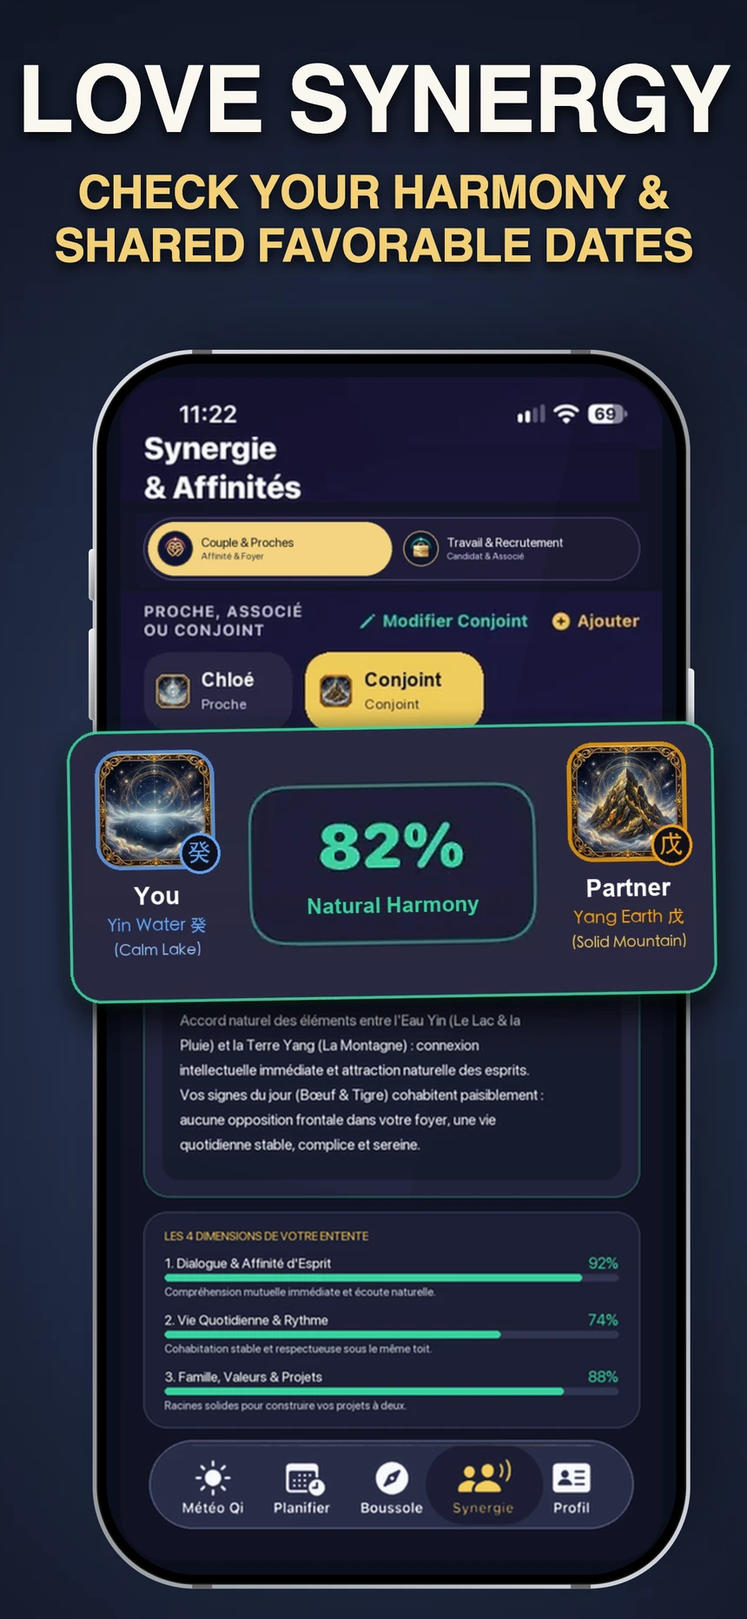
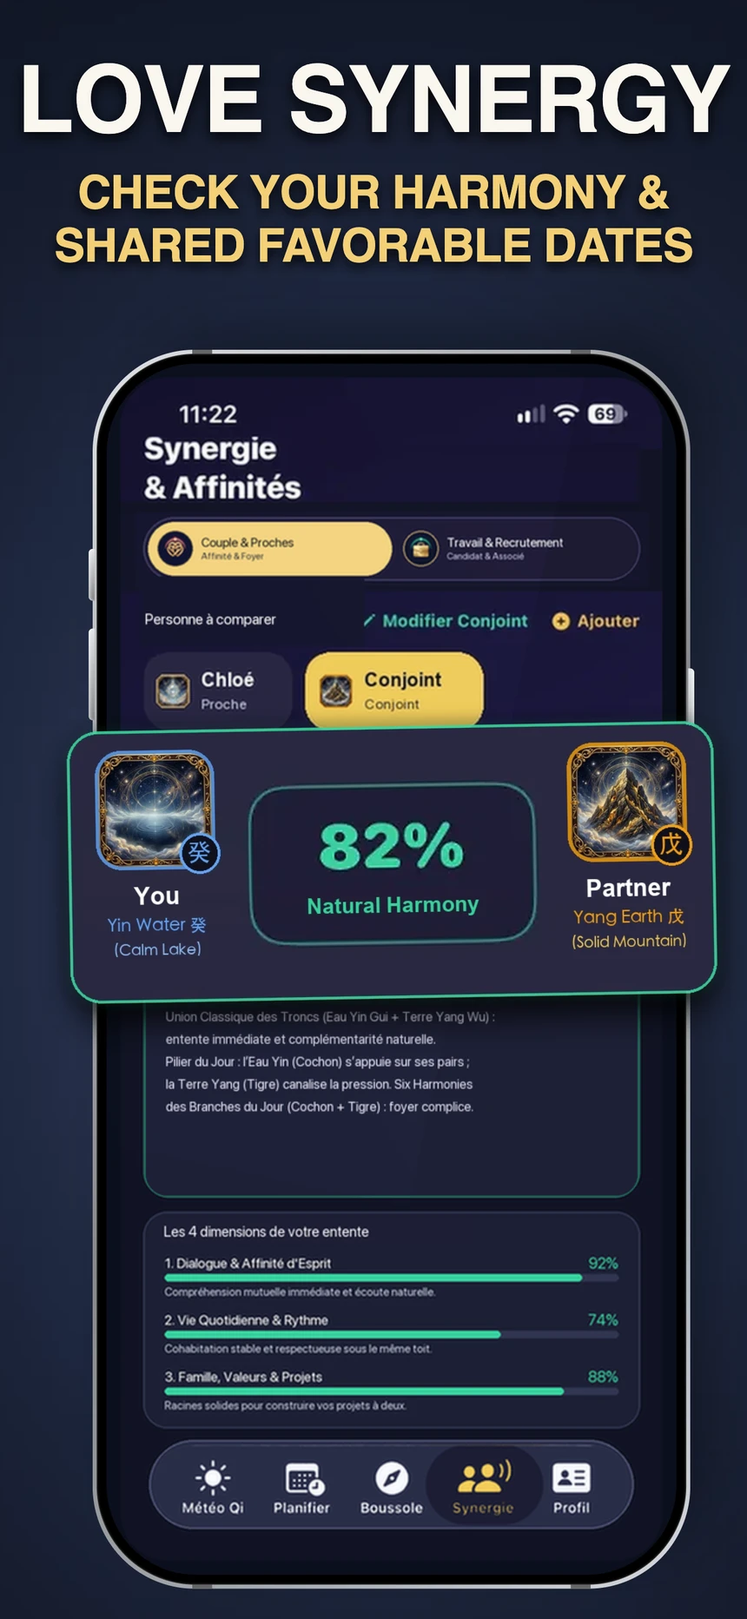
feat(geo,site): add llms.txt, FAQPage JSON-LD, 2-mode Compass & authentic BaZi Synergy copy and screenshots

Changed region(s): [[0.2116, 0.6223, 0.7256, 0.7157], [0.2116, 0.7468, 0.4837, 0.7779], [0.1814, 0.3734, 0.393, 0.4045]]

diff --git a/index.html b/index.html
@@ -7,8 +7,8 @@
   <!-- SEO Primary Meta Tags -->
   <title>QiMétéo — La Météo de vos Décisions · Almanach Tong Shu, Qi Men Dun Jia, BaZi &amp; Feng Shui</title>
   <meta name="title" content="QiMétéo — La Météo de vos Décisions · Almanach Tong Shu, Qi Men Dun Jia, BaZi &amp; Feng Shui">
-  <meta name="description" content="Comme la météo du matin, mais calculée sur votre date et votre heure de naissance (4 Piliers BaZi) : Feu Vert/Orange/Rouge, jusqu’à 3 créneaux d’or Qi Men Dun Jia (hors Kong Wang), boussole 8 Palais, planificateur 30 jours sur 7 projets, Feng Shui Maison (Chiffre Gua) et Synergie Couple &amp; Travail/Recrutement.">
-  <meta name="keywords" content="QiMétéo, qimeteo, météo des décisions, qi men dun jia, tong shu, 4 piliers bazi, feng shui ming gua, chiffre gua, kong wang, planificateur 30 jours, synergie travail recrutement, compatibilité duo, boussole qi men">
+  <meta name="description" content="Comme la météo du matin, mais calculée sur votre date et votre heure de naissance (4 Piliers BaZi) : Feu Vert/Orange/Rouge, jusqu’à 3 créneaux d’or Qi Men Dun Jia (hors Kong Wang), boussole live en 2 modes (Créneaux 2h Qi Men &amp; À vie Chez soi Gua), planificateur 30 jours sur 7 projets et Synergie BaZi Couple &amp; Recrutement (Pilier du Jour, Branche du Mois &amp; Objectif pro).">
+  <meta name="keywords" content="QiMétéo, qimeteo, météo des décisions, qi men dun jia, tong shu, 4 piliers bazi, pilier du jour, branche du mois, feng shui ming gua, chiffre gua, kong wang, planificateur 30 jours, synergie travail recrutement, compatibilité couple bazi, boussole qi men">
   <meta name="author" content="Xavier Larrodé">
   <meta name="robots" content="index, follow">
   <meta name="google-site-verification" content="7idiWW8R0wCWxFZU1-zaQhHj3xDeIIynGLWol92rv7U" />
@@ -17,18 +17,19 @@
   <meta property="og:type" content="website">
   <meta property="og:url" content="https://qimeteo.app/">
   <meta property="og:title" content="QiMétéo — La Météo de vos Décisions (iPhone &amp; iPad)">
-  <meta property="og:description" content="Découvrez en 3 secondes (Feu Vert, Orange ou Rouge) si aujourd'hui est propice selon vos 4 Piliers de naissance, vos créneaux d'or de 2h, votre boussole Qi Men et vos dates propices sur 30 jours.*">
-  <meta property="og:image" content="https://qimeteo.app/assets/screenshots/fr/screen_1.webp">
+  <meta property="og:description" content="Découvrez en 3 secondes (Feu Vert, Orange ou Rouge) si aujourd'hui est propice selon vos 4 Piliers BaZi, vos créneaux d'or de 2h, votre boussole en 2 modes (Créneaux 2h Qi Men &amp; À vie Chez soi Gua), vos dates sur 30 jours et la Synergie Couple &amp; Recrutement.*">
+  <meta property="og:image" content="https://qimeteo.app/assets/screenshots/fr/screen_1.webp?v=10">
 
   <!-- Twitter Card -->
   <meta property="twitter:card" content="summary_large_image">
   <meta property="twitter:url" content="https://qimeteo.app/">
   <meta property="twitter:title" content="QiMétéo — La Météo de vos Décisions">
-  <meta property="twitter:description" content="Feu Vert, Orange ou Rouge calculé selon vos date et heure de naissance, créneaux Qi Men Dun Jia, boussole 8 Palais, planificateur 30 jours et Feng Shui Ming Gua.">
-  <meta property="twitter:image" content="https://qimeteo.app/assets/screenshots/fr/screen_1.webp">
+  <meta property="twitter:description" content="Feu Vert, Orange ou Rouge calculé selon vos date et heure de naissance, créneaux Qi Men Dun Jia, boussole 2 modes (2h Qi Men &amp; À vie Chez soi Gua), planificateur 30 jours et Synergie BaZi Couple &amp; Recrutement.">
+  <meta property="twitter:image" content="https://qimeteo.app/assets/screenshots/fr/screen_1.webp?v=10">
 
   <!-- Canonical & Domain -->
   <link rel="canonical" href="https://qimeteo.app/">
+  <link rel="alternate" type="text/plain" title="LLMs Context" href="https://qimeteo.app/llms.txt">
   
   <!-- Favicons -->
   <link rel="icon" type="image/png" sizes="32x32" href="assets/images/favicon-32.png">
@@ -39,24 +40,66 @@
   <!-- Typography: Outfit (AppShots Display) + Cormorant Garamond (Almanac Editorial) + DM Sans (UI) -->
   <link rel="preconnect" href="https://fonts.googleapis.com">
   <link rel="preconnect" href="https://fonts.gstatic.com" crossorigin>
-  <link href="https://fonts.googleapis.com/css2?family=Cormorant+Garamond:ital,wght@0,500;0,600;0,700;1,500;1,600&family=DM+Sans:ital,opsz,wght@0,9..40,400;0,9..40,500;0,9..40,600;0,9..40,700;1,9..40,400&family=Outfit:wght@600;700;800;900&display=swap" rel="stylesheet">
+  <link href="https://fonts.googleapis.com/css2?family=Cormorant+Garamond:ital,wght@0,500;0,700;1,500;1,600&family=DM+Sans:ital,opsz,wght@0,9..40,400;0,9..40,500;0,9..40,600;0,9..40,700;1,9..40,400&family=Outfit:wght@600;700;800;900&display=swap" rel="stylesheet">
 
   <link rel="stylesheet" href="styles.css?v=8">
 
-  <!-- Schema.org Application Markup -->
+  <!-- Schema.org GEO Structured Data (SoftwareApplication + FAQPage) -->
   <script type="application/ld+json">
   {
     "@context": "https://schema.org",
-    "@type": "SoftwareApplication",
-    "name": "QiMétéo : Météo des Décisions",
-    "operatingSystem": "iOS, iPadOS",
-    "applicationCategory": "LifestyleApplication, ProductivityApplication",
-    "url": "https://qimeteo.app/",
-    "description": "Application iOS et iPadOS de météo décisionnelle quotidienne calculée selon la date et l’heure de naissance (4 Piliers BaZi, 12 Officiers Tong Shu, créneaux stratégiques Qi Men Dun Jia hors Kong Wang, planificateur 30 jours et Feng Shui Ming Gua).",
-    "author": {
-      "@type": "Person",
-      "name": "Xavier Larrodé"
-    }
+    "@graph": [
+      {
+        "@type": "SoftwareApplication",
+        "name": "QiMétéo : Météo des Décisions",
+        "operatingSystem": "iOS 17+, iPadOS 17+",
+        "applicationCategory": "LifestyleApplication, ProductivityApplication",
+        "url": "https://qimeteo.app/",
+        "inLanguage": ["fr", "en", "es", "zh-Hans", "zh-Hant"],
+        "description": "Application iOS et iPadOS de météo décisionnelle quotidienne calculée 100 % en local selon la date et l’heure de naissance (4 Piliers BaZi, 12 Officiers Tong Shu, créneaux stratégiques Qi Men Dun Jia de 2h hors Kong Wang, boussole live en 2 modes : Créneaux 2h Qi Men et À vie Chez soi Ming Gua ±7°, planificateur 30 jours sur 7 projets et Synergie BaZi Couple & Travail/Recrutement avec théorie du Pilier du Jour, force de la Branche du Mois et détection des conflits).",
+        "featureList": [
+          "Météo décisionnelle quotidienne Feu Vert, Orange ou Rouge (Score 0–100 %)",
+          "Thème natal 4 Piliers BaZi (Troncs Célestes illustrés & Branches Terrestres)",
+          "Jusqu'à 3 Créneaux d'Or Qi Men Dun Jia de 2h par jour (hors Kong Wang, Tombe du Mois/Jour et Fu Yin)",
+          "Boussole Live en 2 modes : Créneaux 2h (Qi Men, dos tourné vers la direction + rituel d'ancrage 3 min) et À vie • Chez soi (Chiffre Gua Ba Zhai ±7° pour lit et bureau fixe)",
+          "Planificateur sur 30 jours pour 7 intentions de projet et audit du Calendrier Apple",
+          "Double Synergie BaZi : Couple & Proches + Travail, Associés & Recrutement (Pilier du Jour Maître/Branche, Force de la Branche du Mois & Objectif professionnel, Unions et Conflits des Troncs et Branches)"
+        ],
+        "author": {
+          "@type": "Person",
+          "name": "Xavier Larrodé"
+        }
+      },
+      {
+        "@type": "FAQPage",
+        "mainEntity": [
+          {
+            "@type": "Question",
+            "name": "Pourquoi renseigner à la fois sa date et son heure de naissance dans QiMétéo ?",
+            "acceptedAnswer": {
+              "@type": "Answer",
+              "text": "Le BaZi dresse vos 4 Piliers natals (Année, Mois solaire JieQi, Jour et Heure de naissance), où chaque pilier associe un Tronc Céleste (Élément Yin ou Yang) et une Branche Terrestre (Animal). Votre Maître du Jour est le Tronc Céleste du Jour. Le Tong Shu qualifie l’énergie de la journée via les 12 Officiers, le Qi Men Dun Jia sélectionne vos créneaux de 2h (hors Kong Wang), et le Feng Shui Ming Gua détermine vos 4 directions permanentes à la maison."
+            }
+          },
+          {
+            "@type": "Question",
+            "name": "Quelle est la différence entre les 2 modes de la Boussole Live : Créneaux 2h (Qi Men) et À vie • Chez soi (Gua) ?",
+            "acceptedAnswer": {
+              "@type": "Answer",
+              "text": "Le mode « Créneaux 2h (Qi Men) » est dynamique et change toutes les 2 heures : il indique la direction vers laquelle tourner votre dos pendant un créneau d'or pour un appel, une signature ou une négociation, avec un rituel d'ancrage de 3 minutes. Le mode « À vie • Chez soi (Gua) » est permanent : calculé selon votre année solaire de naissance et votre genre (Homme/Femme), il indique vos 4 directions personnelles à vie (±7°) pour orienter durablement la tête de votre lit et votre bureau fixe à la maison."
+            }
+          },
+          {
+            "@type": "Question",
+            "name": "Comment fonctionne la Synergie Couple et Travail / Recrutement en BaZi ?",
+            "acceptedAnswer": {
+              "@type": "Answer",
+              "text": "QiMétéo analyse les 4 Piliers complets des deux personnes selon la méthode classique : le rapport interne du Pilier du Jour (Maître du Jour ↔ Branche Terrestre du Jour, qui révèle le fonctionnement intime au foyer ou la réaction face à la pression et au contrôle au travail), la force saisonnière de la Branche du Mois (Yue Ling) et l'objectif professionnel (Richesse & Résultat, Pouvoir & Responsabilité, Production & Savoir-Faire, Ressource & Expertise, Compagnons & Autonomie), ainsi que les unions et conflits des Troncs et des Branches (Chocs, Six Blessures, Punitions)."
+            }
+          }
+        ]
+      }
+    ]
   }
   </script>
 </head>
@@ -210,7 +253,7 @@
               <img
                 id="hero-active-screenshot"
                 class="hero-appshot-img"
-                src="assets/screenshots/fr/screen_1.webp?v=9"
+                src="assets/screenshots/fr/screen_1.webp?v=10"
                 data-screen-index="1"
                 alt="QiMétéo — Météo quotidienne Feu Vert, Orange ou Rouge"
                 width="430"
@@ -265,7 +308,7 @@
         <div class="appshots-carousel-track" id="appshots-track">
           <article class="appshot-slide-card active" data-slide-idx="0">
             <div class="appshot-img-wrap">
-              <img src="assets/screenshots/fr/screen_1.webp?v=9" data-localized-screen="1" alt="01 · Votre Météo Décisionnelle" loading="lazy" width="430" height="932">
+              <img src="assets/screenshots/fr/screen_1.webp?v=10" data-localized-screen="1" alt="01 · Votre Météo Décisionnelle" loading="lazy" width="430" height="932">
             </div>
             <div class="appshot-caption">
               <span class="appshot-step-tag">01 / 08</span>
@@ -276,7 +319,7 @@
 
           <article class="appshot-slide-card" data-slide-idx="1">
             <div class="appshot-img-wrap">
-              <img src="assets/screenshots/fr/screen_2.webp?v=9" data-localized-screen="2" alt="02 · Calculé sur mesure selon vos 4 Piliers" loading="lazy" width="430" height="932">
+              <img src="assets/screenshots/fr/screen_2.webp?v=10" data-localized-screen="2" alt="02 · Calculé sur mesure selon vos 4 Piliers" loading="lazy" width="430" height="932">
             </div>
             <div class="appshot-caption">
               <span class="appshot-step-tag">02 / 08</span>
@@ -287,7 +330,7 @@
 
           <article class="appshot-slide-card" data-slide-idx="2">
             <div class="appshot-img-wrap">
-              <img src="assets/screenshots/fr/screen_3.webp?v=9" data-localized-screen="3" alt="03 · Créneaux d'Or de 2h" loading="lazy" width="430" height="932">
+              <img src="assets/screenshots/fr/screen_3.webp?v=10" data-localized-screen="3" alt="03 · Créneaux d'Or de 2h" loading="lazy" width="430" height="932">
             </div>
             <div class="appshot-caption">
               <span class="appshot-step-tag">03 / 08</span>
@@ -298,18 +341,18 @@
 
           <article class="appshot-slide-card" data-slide-idx="3">
             <div class="appshot-img-wrap">
-              <img src="assets/screenshots/fr/screen_4.webp?v=9" data-localized-screen="4" alt="04 · Boussole Live 8 Palais" loading="lazy" width="430" height="932">
+              <img src="assets/screenshots/fr/screen_4.webp?v=10" data-localized-screen="4" alt="04 · Boussole Live 2 modes : Créneaux 2h Qi Men &amp; À vie Chez soi Gua" loading="lazy" width="430" height="932">
             </div>
             <div class="appshot-caption">
               <span class="appshot-step-tag">04 / 08</span>
-              <h3 data-i18n="sc4_t">Boussole Live des 8 Palais</h3>
-              <p data-i18n="sc4_d">Indique au degré près s’il est symboliquement propice de tourner le dos à la Déité Qi Men ou de faire face à la Combinaison.*</p>
+              <h3 data-i18n="sc4_t">Boussole Live en 2 modes : Créneaux 2h &amp; À vie Chez soi</h3>
+              <p data-i18n="sc4_d">Mode « Créneaux 2h (Qi Men) » (change toutes les 2h, dos tourné vers la direction + rituel d’ancrage 3 min) et mode « À vie • Chez soi (Gua) » (±7° pour lit &amp; bureau fixe).*</p>
             </div>
           </article>
 
           <article class="appshot-slide-card" data-slide-idx="4">
             <div class="appshot-img-wrap">
-              <img src="assets/screenshots/fr/screen_5.webp?v=9" data-localized-screen="5" alt="05 · Planificateur 30 jours sur 7 projets" loading="lazy" width="430" height="932">
+              <img src="assets/screenshots/fr/screen_5.webp?v=10" data-localized-screen="5" alt="05 · Planificateur 30 jours sur 7 projets" loading="lazy" width="430" height="932">
             </div>
             <div class="appshot-caption">
               <span class="appshot-step-tag">05 / 08</span>
@@ -320,7 +363,7 @@
 
           <article class="appshot-slide-card" data-slide-idx="5">
             <div class="appshot-img-wrap">
-              <img src="assets/screenshots/fr/screen_6.webp?v=9" data-localized-screen="6" alt="06 · Feng Shui Ming Gua" loading="lazy" width="430" height="932">
+              <img src="assets/screenshots/fr/screen_6.webp?v=10" data-localized-screen="6" alt="06 · Feng Shui Ming Gua" loading="lazy" width="430" height="932">
             </div>
             <div class="appshot-caption">
               <span class="appshot-step-tag">06 / 08</span>
@@ -331,23 +374,23 @@
 
           <article class="appshot-slide-card" data-slide-idx="6">
             <div class="appshot-img-wrap">
-              <img src="assets/screenshots/fr/screen_7.webp?v=9" data-localized-screen="7" alt="07 · Synergie Couple &amp; Proches" loading="lazy" width="430" height="932">
+              <img src="assets/screenshots/fr/screen_7.webp?v=10" data-localized-screen="7" alt="07 · Synergie Couple &amp; Proches" loading="lazy" width="430" height="932">
             </div>
             <div class="appshot-caption">
               <span class="appshot-step-tag">07 / 08</span>
-              <h3 data-i18n="sc6_duo_t">Synergie Couple, Famille &amp; Proches</h3>
-              <p data-i18n="sc6_duo_d">Comparez vos Maîtres du Jour (Troncs Célestes) et vos Branches Terrestres, et repérez vos dates communes favorables sur 30 jours.*</p>
+              <h3 data-i18n="sc6_duo_t">Synergie Couple, Famille &amp; Piliers du Jour</h3>
+              <p data-i18n="sc6_duo_d">Analyse des 4 Piliers, théorie du Pilier du Jour (Maître du Jour ↔ Branche Terrestre du Jour), unions et conflits des Branches, et dates communes sur 30 jours.*</p>
             </div>
           </article>
 
           <article class="appshot-slide-card" data-slide-idx="7">
             <div class="appshot-img-wrap">
-              <img src="assets/screenshots/fr/screen_8.webp?v=9" data-localized-screen="8" alt="08 · Synergie Travail &amp; Recrutement" loading="lazy" width="430" height="932">
+              <img src="assets/screenshots/fr/screen_8.webp?v=10" data-localized-screen="8" alt="08 · Synergie Travail &amp; Recrutement" loading="lazy" width="430" height="932">
             </div>
             <div class="appshot-caption">
               <span class="appshot-step-tag">08 / 08</span>
               <h3 data-i18n="sc8_t">Synergie Travail, Associés &amp; Recrutement</h3>
-              <p data-i18n="sc8_d">Vérifiez si un candidat, associé ou collaborateur va bien travailler avec vous : Décision &amp; Pilotage, Exécution, Rôle naturel et Conseil management.*</p>
+              <p data-i18n="sc8_d">Évaluez un candidat ou associé : Force de la Branche du Mois (Enraciné vs Adaptatif), Objectif professionnel (Richesse, Pouvoir, Savoir-Faire…), Pilier du Jour face à la pression et détection des conflits.*</p>
             </div>
           </article>
         </div>
@@ -515,14 +558,14 @@
           <article class="appshot-bento-card">
             <div class="bento-top-meta">
               <span class="bento-num">02</span>
-              <span class="bento-domain">Azimuts 0° à 315° · 八宮</span>
+              <span class="bento-domain">Azimuts 0° à 315° · 八宮 &amp; 八宅</span>
             </div>
-            <h3 class="bento-title" data-i18n="feat_2_title">Boussole Live des 8 Palais : de dos ou de face</h3>
+            <h3 class="bento-title" data-i18n="feat_2_title">Boussole Live en 2 modes : Créneaux 2h (Qi Men) &amp; À vie • Chez soi (Gua)</h3>
             <p class="bento-desc" data-i18n="feat_2_desc">
-              Selon la structure du créneau Qi Men, l’application indique s’il est symboliquement propice de vous asseoir le dos tourné vers la Déité (Chief, Heaven, Earth, Moon, Harmony) ou de faire face à une Combinaison, avec un retour haptique dès que vous êtes aligné.*
+              Mode « Créneaux 2h (Qi Men) » (change toutes les 2h : indique vers quelle direction tourner votre dos pendant un créneau d’or + rituel d’ancrage 3 min) et mode « À vie • Chez soi (Gua) » (vos 4 directions permanentes ±7° pour orienter la tête de votre lit et votre bureau fixe à la maison).*
             </p>
             <div class="bento-visual-strip">
-              <img src="assets/stickers/breakout_4_boussole_aligne.webp?v=9" alt="Boussole Qi Men Aligné" loading="lazy">
+              <img src="assets/stickers/breakout_4_boussole_aligne.webp?v=10" alt="Boussole Qi Men Aligné" loading="lazy">
             </div>
           </article>
 
@@ -536,21 +579,21 @@
               Choisissez votre objectif parmi 7 intentions (Contrats &amp; Négociations, Lancer un projet, Union &amp; Mariage, Immobilier &amp; Travaux, Voyage, Médecin, Chirurgie &amp; Combinaison Santé**, Tri &amp; Régime) et triez les dates propices sur 30 jours* par « Plus pertinent (Score %) » ou « Au plus tôt (Pressé) ».
             </p>
             <div class="bento-visual-strip">
-              <img src="assets/stickers/breakout_5_planificateur_95.webp?v=9" alt="Planificateur 30 jours Score 95%" loading="lazy">
+              <img src="assets/stickers/breakout_5_planificateur_95.webp?v=10" alt="Planificateur 30 jours Score 95%" loading="lazy">
             </div>
           </article>
 
           <article class="appshot-bento-card">
             <div class="bento-top-meta">
               <span class="bento-num">04</span>
-              <span class="bento-domain">Synergie Pro · Agenda Apple</span>
+              <span class="bento-domain">Synergie Pro BaZi · Agenda Apple</span>
             </div>
-            <h3 class="bento-title" data-i18n="feat_5_title">Synergie Travail &amp; Recrutement + Audit Agenda Apple</h3>
+            <h3 class="bento-title" data-i18n="feat_5_title">Synergie Travail &amp; Recrutement (Pilier du Jour &amp; Branche du Mois)</h3>
             <p class="bento-desc" data-i18n="feat_5_desc">
-              Vérifiez si un candidat, associé ou collaborateur va bien travailler avec vous (Décision &amp; Pilotage, Exécution, Rôle naturel et Conseil management) et auditez vos prochains rendez-vous iPhone sur 30 jours avec export en 1 tap.*
+              Évaluez un candidat, associé ou collaborateur selon la méthode BaZi classique : rapport interne du Pilier du Jour (réaction face à la pression et au contrôle), force de la Branche du Mois (Yue Ling) &amp; Objectif professionnel (Richesse, Pouvoir, Savoir-Faire…), et détection des conflits de Troncs et Branches.*
             </p>
             <div class="bento-visual-strip">
-              <img src="assets/stickers/breakout_8_expert_synastrie.webp?v=9" alt="Synergie Travail et Recrutement BaZi" loading="lazy">
+              <img src="assets/stickers/breakout_8_expert_synastrie.webp?v=10" alt="Synergie Travail et Recrutement BaZi" loading="lazy">
             </div>
           </article>
         </div>
@@ -860,6 +903,6 @@
     </div>
   </footer>
 
-  <script src="script.js?v=9"></script>
+  <script src="script.js?v=10"></script>
 </body>
 </html>

diff --git a/script.js b/script.js
@@ -76,16 +76,16 @@
       sc2_d: "Vos 4 Piliers BaZi à 2 étages (Tronc Céleste = Élément Yin/Yang en haut, Branche Terrestre = Animal en bas) et votre Chiffre Gua.",
       sc3_t: "Créneaux d’Or de 2h (hors Kong Wang)",
       sc3_d: "Vos meilleures fenêtres horaires de 2h chaque jour*, sélectionnées et diversifiées (jusqu’à 3 créneaux d’or/jour).",
-      sc4_t: "Boussole Live des 8 Palais",
-      sc4_d: "Indique au degré près s’il est symboliquement propice de tourner le dos à la Déité Qi Men ou de faire face à la Combinaison.*",
+      sc4_t: "Boussole Live en 2 modes : Créneaux 2h & À vie Chez soi",
+      sc4_d: "Mode « Créneaux 2h (Qi Men) » (change toutes les 2h, dos tourné vers la direction + rituel d’ancrage 3 min) et mode « À vie • Chez soi (Gua) » (±7° pour lit & bureau fixe).*",
       sc5_t: "Planificateur 30 Jours · 7 Projets",
       sc5_d: "Trouvez les jours propices sur 30 jours* (tri par Score % ou Au plus tôt) et auditez votre Agenda Apple.",
       sc6_t: "Feng Shui Maison (Chiffre Gua) : Lit & Bureau",
       sc6_d: "Vos 4 directions favorables permanentes (Sheng Qi, Tian Yi, Yan Nian, Fu Wei) pour orienter votre lit et votre bureau.*",
-      sc6_duo_t: "Synergie Couple, Famille & Proches",
-      sc6_duo_d: "Comparez vos Maîtres du Jour (Troncs Célestes) et vos Branches Terrestres, et repérez vos dates communes favorables sur 30 jours.*",
+      sc6_duo_t: "Synergie Couple, Famille & Piliers du Jour",
+      sc6_duo_d: "Analyse des 4 Piliers, théorie du Pilier du Jour (Maître du Jour ↔ Branche Terrestre du Jour), unions et conflits des Branches, et dates communes sur 30 jours.*",
       sc8_t: "Synergie Travail, Associés & Recrutement",
-      sc8_d: "Vérifiez si un candidat, associé ou collaborateur va bien travailler avec vous : Décision & Pilotage, Exécution, Rôle naturel et Conseil management.*",
+      sc8_d: "Évaluez un candidat ou associé : Force de la Branche du Mois (Enraciné vs Adaptatif), Objectif professionnel (Richesse, Pouvoir, Savoir-Faire…), Pilier du Jour face à la pression et détection des conflits.*",
 
       concept_badge: "L’almanach Tong Shu",
       concept_kicker: "12 OFFICIERS DU JOUR · ACCUMULATION · KONG WANG",
@@ -127,22 +127,22 @@
       feat_1_title: "Créneaux d’Or de 2h (hors heures Kong Wang)",
       feat_1_desc: "Entre 07h et 23h, QiMétéo écarte les heures Kong Wang (Vide Céleste) ainsi que les structures défavorables pour retenir jusqu’à 3 créneaux d’or par jour (Combinaisons 5★, Vœux & Intentions, Finances & Relationnel Favorables*, Déités diversifiées).",
 
-      feat_2_title: "Boussole Live des 8 Palais : de dos ou de face",
-      feat_2_desc: "Selon la structure du créneau Qi Men, l’application indique s’il est symboliquement propice de vous asseoir le dos tourné vers la Déité (Chief, Heaven, Earth, Moon, Harmony) ou de faire face à une Combinaison, avec un retour haptique dès que vous êtes aligné.*",
+      feat_2_title: "Boussole Live en 2 modes : Créneaux 2h (Qi Men) & À vie • Chez soi (Gua)",
+      feat_2_desc: "Mode « Créneaux 2h (Qi Men) » (change toutes les 2h : indique vers quelle direction tourner votre dos pendant un créneau d’or + rituel d’ancrage 3 min) et mode « À vie • Chez soi (Gua) » (vos 4 directions permanentes ±7° pour orienter la tête de votre lit et votre bureau fixe à la maison).*",
 
       feat_3_title: "Planificateur 30 Jours sur 7 Intentions & Double Tri",
       feat_3_desc: "Choisissez votre objectif parmi 7 intentions (Contrats & Négociations, Lancer un projet, Union & Mariage, Immobilier & Travaux, Voyage, Médecin, Chirurgie & Combinaison Santé**, Tri & Régime) et triez les dates propices sur 30 jours* par « Plus pertinent (Score %) » ou « Au plus tôt (Pressé) ».",
 
-      feat_5_title: "Synergie Travail & Recrutement + Audit Agenda Apple",
-      feat_5_desc: "Vérifiez si un candidat, associé ou collaborateur va bien travailler avec vous (Décision & Pilotage, Exécution, Rôle naturel et Conseil management) et auditez vos prochains rendez-vous iPhone sur 30 jours avec export en 1 tap.*",
+      feat_5_title: "Synergie Travail & Recrutement (Pilier du Jour & Branche du Mois)",
+      feat_5_desc: "Évaluez un candidat, associé ou collaborateur selon la méthode BaZi classique : rapport interne du Pilier du Jour (réaction face à la pression et au contrôle), force de la Branche du Mois (Yue Ling) & Objectif professionnel (Richesse, Pouvoir, Savoir-Faire…), et détection des conflits de Troncs et Branches.*",
 
       duo_badge: "Harmonie du lieu, Couple & Recrutement",
       duo_kicker: "FENG SHUI MAISON (八宅) & SYNERGIE COUPLE / TRAVAIL",
       duo_title: "Orientations Feng Shui Maison (lit, bureau) et Synergie Couple, Proches & Recrutement.",
-      duo_desc: "Au-delà de la météo du jour, QiMétéo calcule vos directions permanentes à la maison selon votre Chiffre Gua et croise deux thèmes complets — en mode Couple/Proches ou en mode Travail/Recrutement (candidat, associé, collaborateur) — ainsi que vos dates communes sur 30 jours.*",
+      duo_desc: "Au-delà de la météo du jour, QiMétéo calcule vos directions permanentes à la maison selon votre Chiffre Gua et croise deux thèmes complets — en mode Couple/Proches ou en mode Travail/Recrutement (Pilier du Jour, Force de la Branche du Mois & Objectif pro, Conflits Troncs/Branches) — ainsi que vos dates communes sur 30 jours.*",
 
       duo_p1_strong: "Double Synergie BaZi : Couple & Proches + Travail & Recrutement",
-      duo_p1_desc: "Basculez entre la Synergie Couple/Proches et la Synergie Travail/Recrutement (Décision & Pilotage, Travail au Quotidien, Exécution, Rôle naturel du candidat et Conseil management) et filtrez vos meilleures dates communes sur 30 jours.*",
+      duo_p1_desc: "Analyse complète des 4 Piliers : rapport du Pilier du Jour (Maître du Jour ↔ Branche Terrestre du Jour), force saisonnière de la Branche du Mois & Objectif professionnel (Richesse & Résultat, Pouvoir, Production, Ressource, Compagnons), et détection des conflits (Chocs, Six Blessures, Punitions).*",
       duo_p2_strong: "Feng Shui Ming Gua : vos 4 bonnes directions personnelles (directions pleines)",
       duo_p2_desc: "Sheng Qi (Créativité, puissance, réalisation), Tian Yi (Soutien et assistance, Médecins du ciel**), Yan Nian (Relationnel et famille) et Fu Wei (Stabilité, harmonie générale), appliquées aux directions pleines : Nord (353°–7°), Nord-Est (38°–52°), Est (83°–97°), Sud-Est (128°–142°), Sud (173°–187°), Sud-Ouest (218°–232°), Ouest (263°–277°) et Nord-Ouest (308°–322°).*",
 
@@ -297,16 +297,16 @@
       sc2_d: "Your 4 two-level BaZi Pillars (Heavenly Stem = Yin/Yang Element on top, Earthly Branch = Animal on bottom) and your Ming Gua number.",
       sc3_t: "Golden 2h Windows (Zero Kong Wang)",
       sc3_d: "Your best daily 2-hour windows*, selected and diversified (up to 3 golden slots/day).",
-      sc4_t: "Live 8-Palace Compass",
-      sc4_d: "Shows to the exact degree whether it is symbolically favorable to sit with your back to the Qi Men Deity or facing the Combination.*",
+      sc4_t: "Dual-Mode Live Compass: 2h Qi Men Slots & Lifetime Home Gua",
+      sc4_d: "'2h Slots (Qi Men)' mode (changes every 2h, back turned toward the direction + 3-min anchoring ritual) and 'Lifetime • At Home (Gua)' mode (±7° for bed & fixed desk).*",
       sc5_t: "30-Day Planner · 7 Project Goals",
       sc5_d: "Find your favorable dates over 30 days* (sorted by Score % or Soonest) and audit your Apple Calendar.",
       sc6_t: "Home Feng Shui (Ming Gua): Bed & Desk",
       sc6_d: "Your 4 permanent favorable directions (Sheng Qi, Tian Yi, Yan Nian, Fu Wei) to orient your bed and desk.*",
-      sc6_duo_t: "Love, Family & Friends Synergy",
-      sc6_duo_d: "Compare your Day Masters (Heavenly Stems) and Earthly Branches, and find shared favorable dates over 30 days.*",
+      sc6_duo_t: "Love, Family & Day Pillar Synergy",
+      sc6_duo_d: "4-Pillar comparison, Day Pillar theory (Day Master ↔ Day Branch), Stem/Branch unions & clashes, and shared favorable dates over 30 days.*",
       sc8_t: "Work, Partners & Hiring Synergy",
-      sc8_d: "Check if a candidate, partner, or collaborator will work well with you: Decision-Making, Execution, Natural Role, and Management tip.*",
+      sc8_d: "Evaluate a candidate or partner: Month Branch strength (Rooted vs. Adaptive), Career Objective (Wealth, Power, Output…), Day Pillar under pressure, and clash detection.*",
 
       concept_badge: "The Tong Shu Almanac",
       concept_kicker: "12 DAY OFFICERS · FULL (ACCUMULATION) · KONG WANG VOID",
@@ -348,22 +348,22 @@
       feat_1_title: "Golden 2h Windows (cleared of Kong Wang hours)",
       feat_1_desc: "Between 07:00 and 23:00, QiMétéo filters out Kong Wang hours (Celestial Void) and negative structures to select up to 3 golden slots/day (5★ Combinations, Wishes & Intentions, Favorable Finances & Connections*, diversified Deities).",
 
-      feat_2_title: "Live 8-Palace Compass: back or face positioning",
-      feat_2_desc: "Depending on the Qi Men window structure, the app indicates whether it is symbolically favorable to sit with your back turned to the Deity (Chief, Heaven, Earth, Moon, Harmony) or facing a Combination, with haptic confirmation as soon as you are aligned.*",
+      feat_2_title: "Dual-Mode Live Compass: 2h Slots (Qi Men) & Lifetime • At Home (Gua)",
+      feat_2_desc: "'2h Slots (Qi Men)' mode (dynamic every 2h: shows which direction to turn your back toward during a golden window + 3-min anchoring ritual) and 'Lifetime • At Home (Gua)' mode (your 4 lifetime personal directions ±7° for bed headboard & fixed desk).*",
 
       feat_3_title: "30-Day Planner Across 7 Project Goals & Dual Sort",
       feat_3_desc: "Pick your goal among 7 intentions (Contracts & Negotiations, Launch a Project, Marriage & Union, Real Estate & Renovation, Travel, Doctor, Surgery & Health Combination**, Declutter & Diet) and sort favorable dates over 30 days* by 'Best Match (Score %)' or 'Soonest (Urgent)'.",
 
-      feat_5_title: "Work & Hiring Synergy + 30-Day Apple Calendar Audit",
-      feat_5_desc: "Evaluate whether a candidate, business partner, or collaborator will work well with you (Decision-Making, Execution, Natural Role, Management tip) and audit your upcoming iPhone meetings over 30 days with 1-tap export.*",
+      feat_5_title: "Work & Hiring Synergy (Day Pillar & Month Branch Goal)",
+      feat_5_desc: "Evaluate a candidate, co-founder, or collaborator using classical BaZi theory: Day Pillar relationship (response to pressure & control), Month Branch strength (Yue Ling) & Career Objective (Wealth, Power, Output…), and Stem/Branch conflict detection.*",
 
       duo_badge: "Home harmony, Love & Hiring Synergy",
       duo_kicker: "HOME FENG SHUI (八宅) & LOVE / WORK SYNERGY",
       duo_title: "Home Feng Shui orientations (bed, desk) and Love, Family & Hiring Synergy.",
-      duo_desc: "Beyond daily weather, QiMétéo computes your permanent directions at home from your Gua Number and crosses two complete charts — in Love/Family mode or Work/Hiring mode (candidate, partner, collaborator) — plus shared favorable dates over 30 days.*",
+      duo_desc: "Beyond daily weather, QiMétéo computes your permanent directions at home from your Gua Number and crosses two complete charts — in Love/Family mode or Work/Hiring mode (Day Pillar, Month Branch strength & Career Goal, Stem/Branch clashes) — plus shared favorable dates over 30 days.*",
 
       duo_p1_strong: "Dual BaZi Synergy: Love & Family + Work & Hiring",
-      duo_p1_desc: "Switch between Love/Family Synergy and Work/Hiring Synergy (Decision-Making, Daily Collaboration, Execution, Candidate Natural Role, and Management tip) and filter shared favorable dates over 30 days.*",
+      duo_p1_desc: "Complete 4-Pillar analysis: Day Pillar relationship (Day Master ↔ Day Branch), Month Branch seasonal strength & Career Objective (Wealth & Results, Power, Output, Resource, Peers), and conflict detection (Clashes, Six Harms, Punishments).*",
       duo_p2_strong: "Ming Gua Feng Shui: your 4 personal favorable directions (full directions)",
       duo_p2_desc: "Sheng Qi (Creativity, power, achievement), Tian Yi (Support & assistance, Heavenly Doctor**), Yan Nian (Relationships & family), and Fu Wei (Stability, overall harmony), applied to full central directions: North (353°–7°), Northeast (38°–52°), East (83°–97°), Southeast (128°–142°), South (173°–187°), Southwest (218°–232°), West (263°–277°), and Northwest (308°–322°).*",
 
@@ -490,13 +490,13 @@
     const folder = lang === 'en' ? 'en' : 'fr';
     const heroImg = document.getElementById('hero-active-screenshot');
     if (heroImg) {
-      heroImg.src = `assets/screenshots/${folder}/screen_${currentHeroScreen}.webp?v=9`;
+      heroImg.src = `assets/screenshots/${folder}/screen_${currentHeroScreen}.webp?v=10`;
     }
 
     document.querySelectorAll('[data-localized-screen]').forEach((img) => {
       const num = img.getAttribute('data-localized-screen');
       if (num) {
-        img.src = `assets/screenshots/${folder}/screen_${num}.webp?v=9`;
+        img.src = `assets/screenshots/${folder}/screen_${num}.webp?v=10`;
       }
     });
   }
@@ -556,7 +556,7 @@
         const folder = currentLang === 'en' ? 'en' : 'fr';
         heroImg.style.opacity = '0.35';
         setTimeout(() => {
-          heroImg.src = `assets/screenshots/${folder}/screen_${screenNum}.webp?v=9`;
+          heroImg.src = `assets/screenshots/${folder}/screen_${screenNum}.webp?v=10`;
           if (guardianImg && screenGuardians[screenNum]) {
             guardianImg.src = screenGuardians[screenNum];
           }
